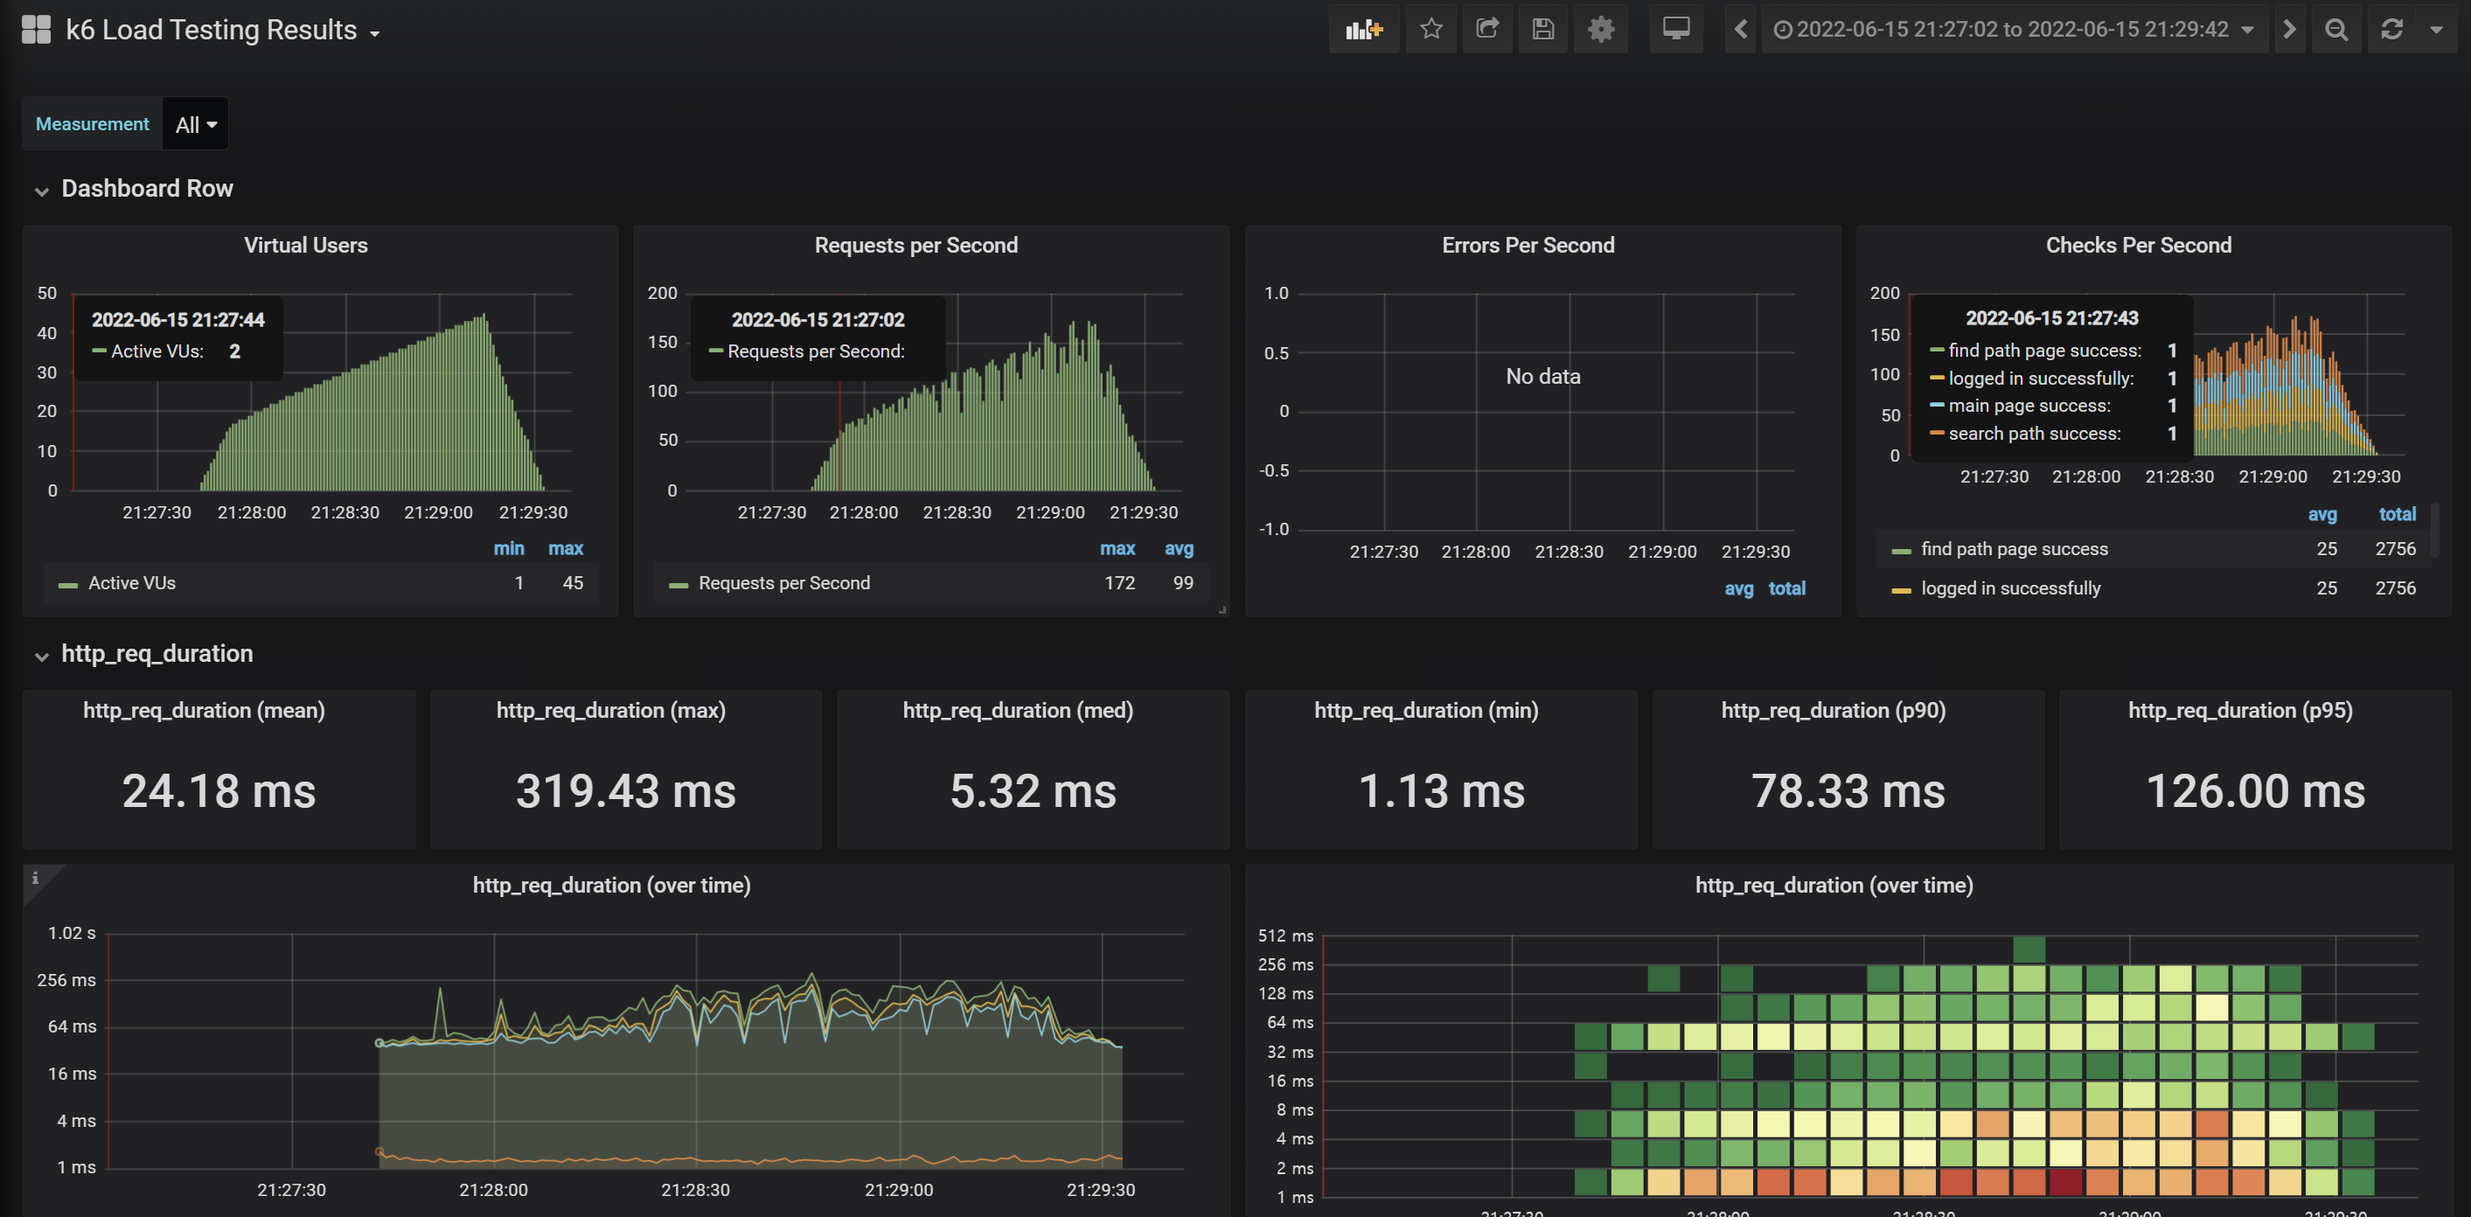
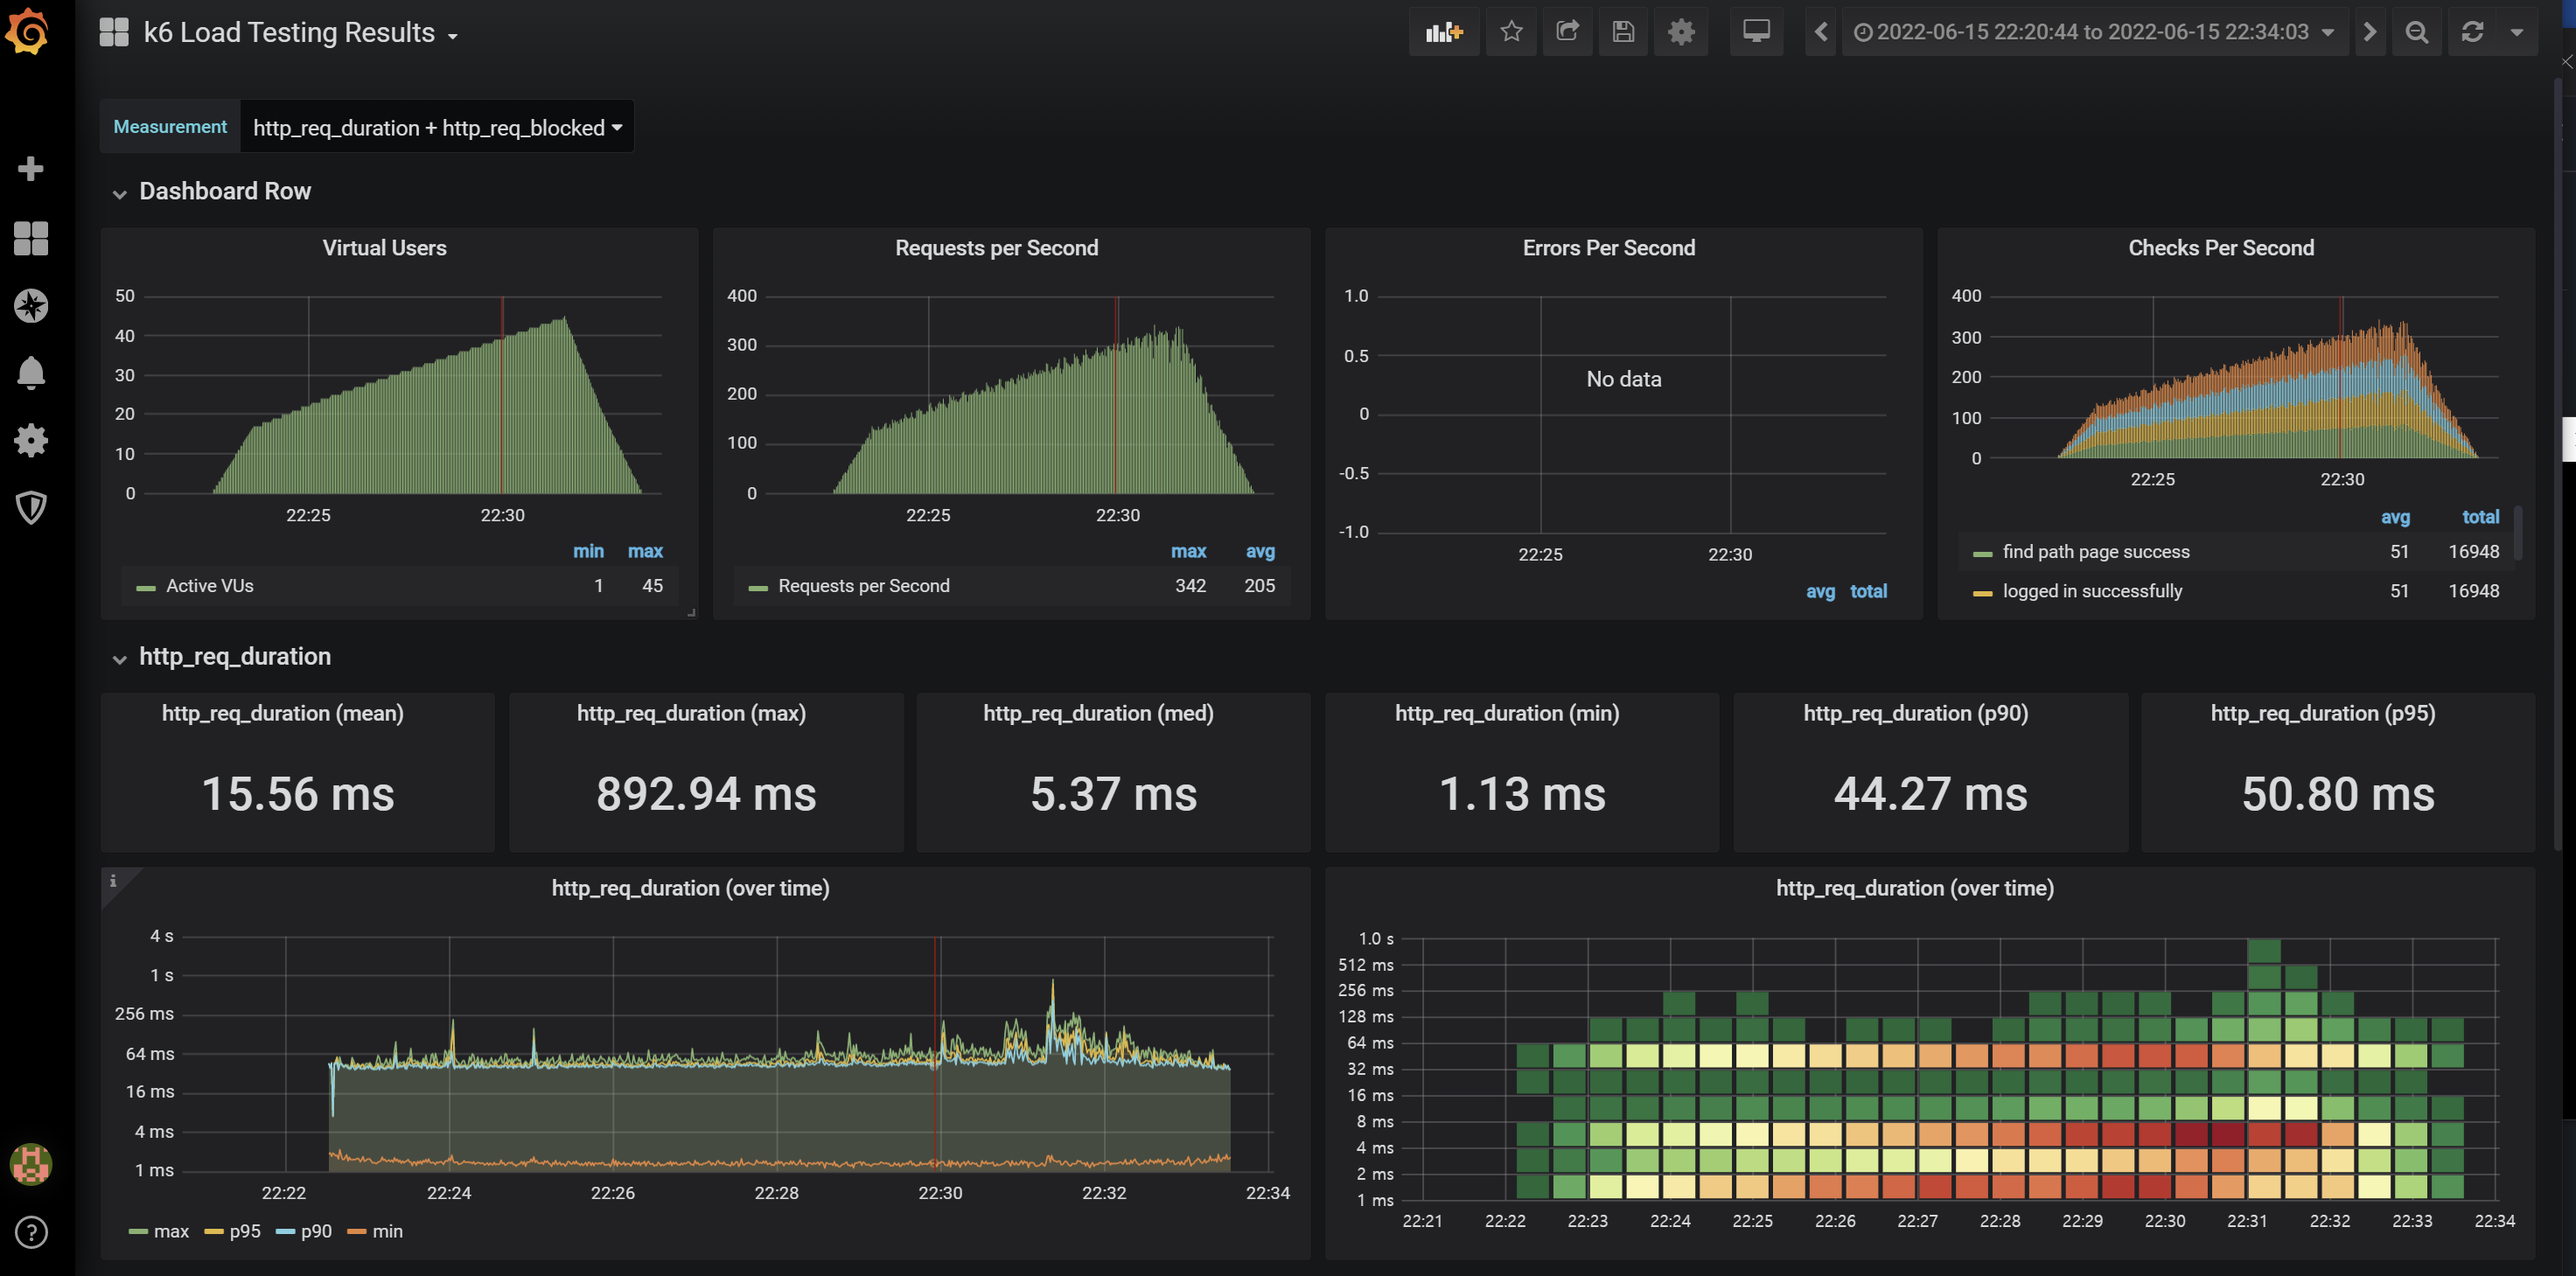
docs: load test 수정

diff --git a/docs/load/load.js b/docs/load/load.js
@@ -3,12 +3,12 @@ import { check, group, sleep, fail } from 'k6';
 
 export let options = {
   stages: [
-    { duration: '10s', target: 17 },
-    { duration: '20s', target: 25 },
-    { duration: '30s', target: 35 },
-    { duration: '30s', target: 45 },
-    { duration: '10s', target: 20 },
-    { duration: '10s', target:  0 }
+    { duration: '1m', target: 17 },
+    { duration: '2m', target: 25 },
+    { duration: '3m', target: 35 },
+    { duration: '3m', target: 45 },
+    { duration: '1m', target: 20 },
+    { duration: '1m', target:  0 }
   ],
   thresholds: {
     http_req_duration: ['p(99)<100'], // 99% of requests must complete below 1.5s
